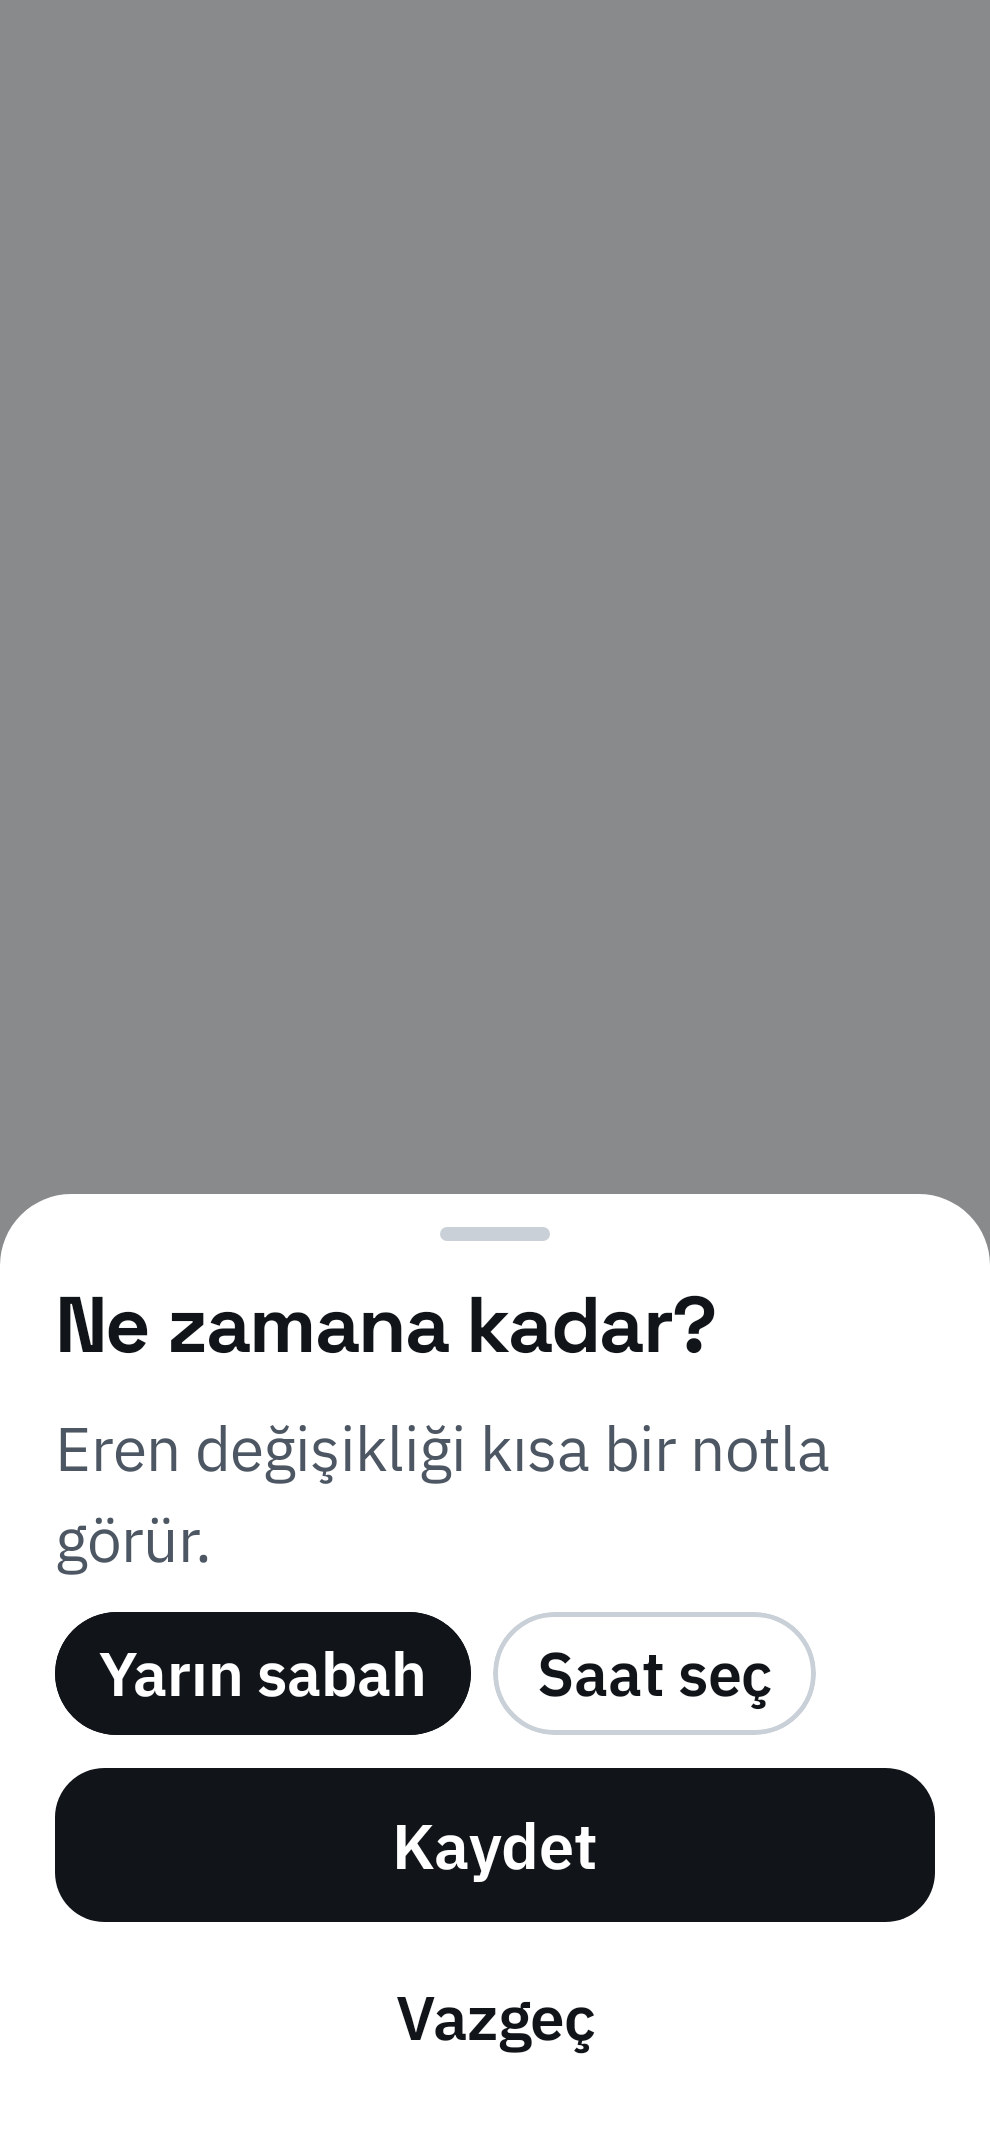
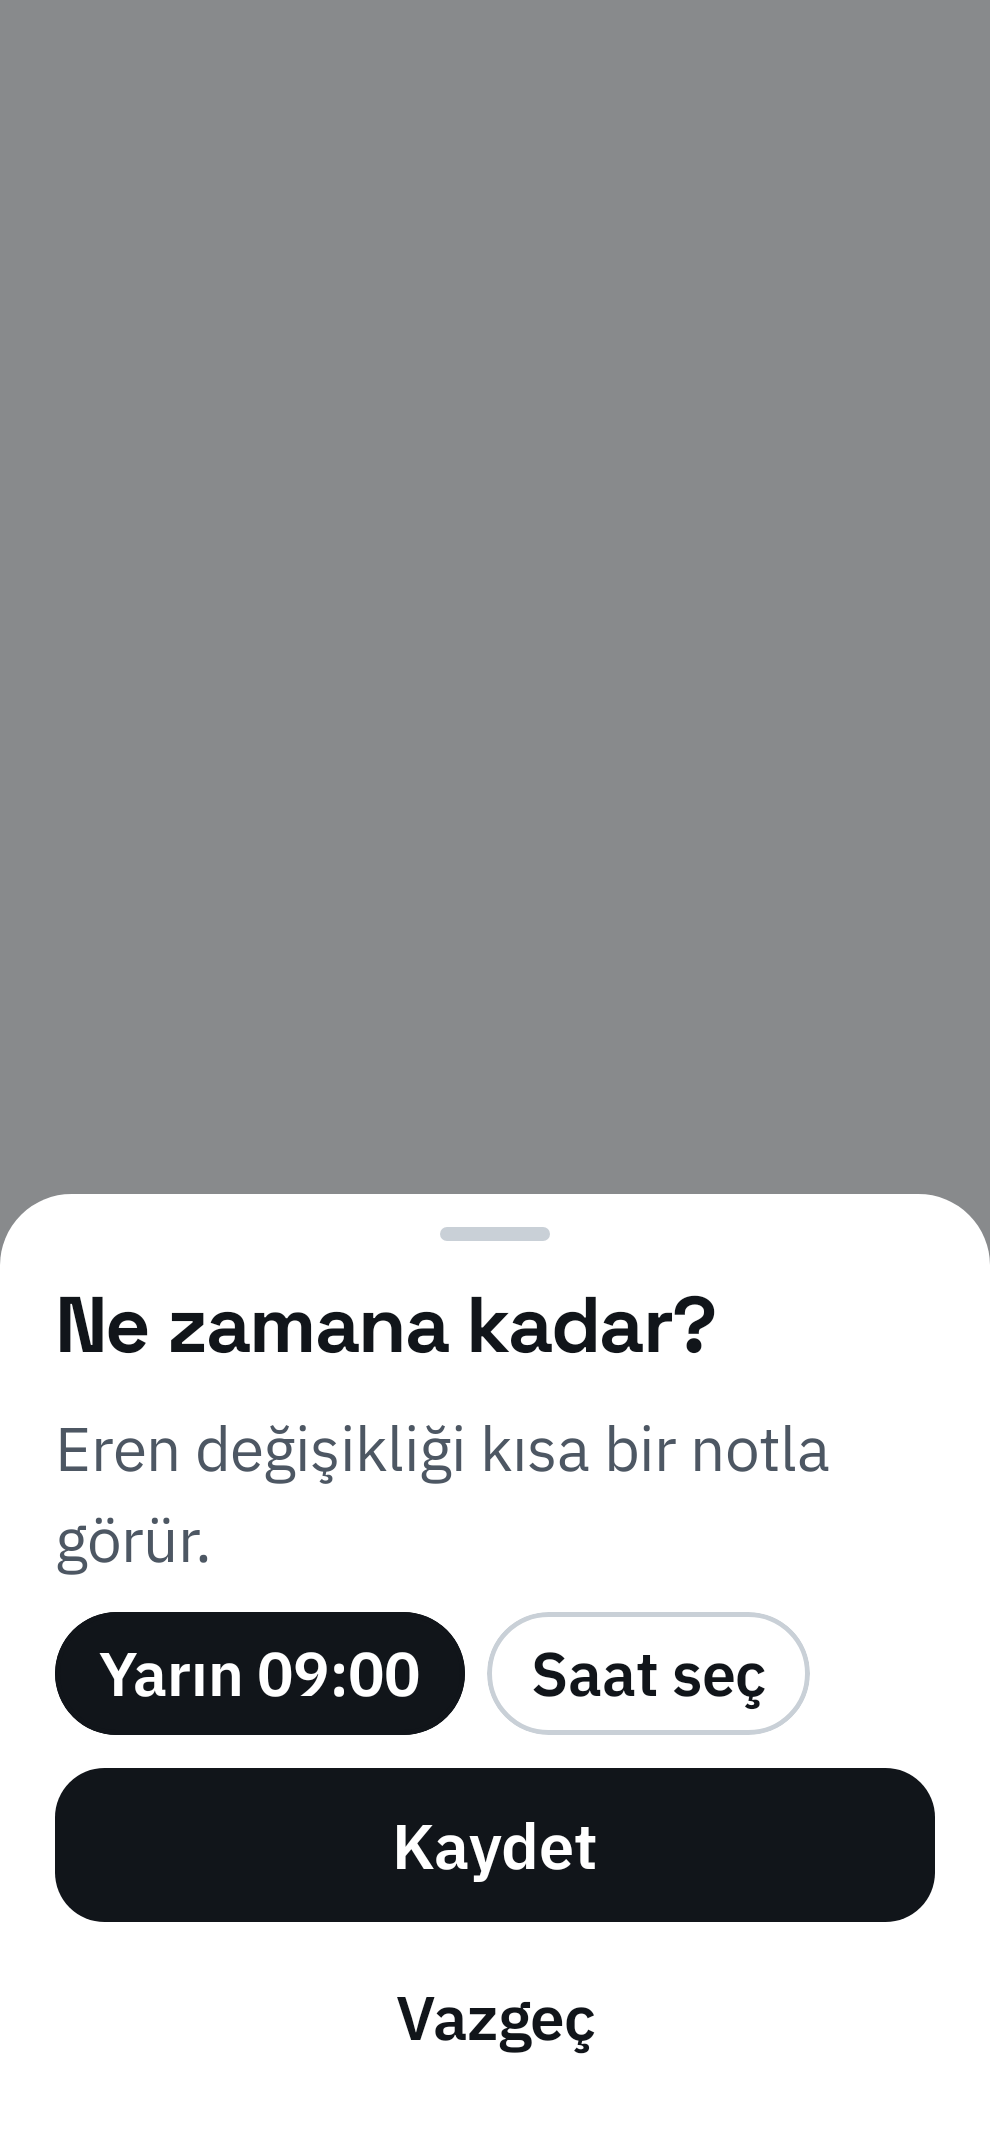
NUD-55 Sync carries timing and remindAt; quick picks show the time
The sync route mapped tasks field by field and left out timing and remindAt,
so the phone treated every task as 'by' and showed an 'at' task's miss time
(yarın 21:00 for yarın sabah 9). The quick picks now say Bugün 19:00 and
Yarın 09:00 instead of Bugün akşam and Yarın sabah.

Claude-Session: https://claude.ai/code/session_01MpnPveQqLsx472DNRojrYK

Changed region(s): [[0.4545, 0.7497, 0.6667, 0.8121], [0.2727, 0.7497, 0.4242, 0.8121], [0.697, 0.7497, 0.8182, 0.8121]]

diff --git a/apps/web/test/http/sync.test.ts b/apps/web/test/http/sync.test.ts
@@ -48,6 +48,30 @@ describe("http: sync", () => {
     expect(forEren.plans.flatMap((p) => p.steps.map((s) => s.level))).not.toContain("HUMAN");
   });
 
+  it("gives an at task's moment and timing to both sides (NUD-55)", async () => {
+    const r = await sibel.api.POST("/api/v1/commands/create_task", {
+      body: {
+        idempotencyKey: uuidv7(),
+        recipientId: eren.id,
+        title: "Ekmek al",
+        detail: null,
+        deadline: "2026-10-12T09:00:00+03:00",
+        timing: "at",
+        missAfterMinutes: 720,
+        finishMode: "done",
+        rawText: "yarın sabah 9 eren ekmek alsın",
+      },
+    });
+    const taskId = r.data?.taskId;
+    for (const who of [sibel, eren]) {
+      expect((await syncOf(who)).tasks.find((t) => t.id === taskId)).toMatchObject({
+        timing: "at",
+        remindAt: "2026-10-12T06:00:00.000Z",
+        deadline: "2026-10-12T18:00:00.000Z",
+      });
+    }
+  });
+
   it("tells when a task was written and how to reach a connection", async () => {
     const taskId = await createTask(sibel, eren);
     const forEren = await syncOf(eren);

diff --git a/apps/android/app/src/main/kotlin/app/nuddle/ui/screens/home/Preview.kt b/apps/android/app/src/main/kotlin/app/nuddle/ui/screens/home/Preview.kt
@@ -20,7 +20,7 @@ import java.util.Locale
 import kotlin.time.Instant
 
 // Parts of the day as the extraction prompt reads them (apps/web/src/infra/llm): akşam 19:00, sabah 09:00.
-// The times behind "Bugün akşam" and "Yarın sabah": open-questions#28.
+// The times behind "Bugün 19:00" and "Yarın 09:00": open-questions#28.
 private val EVENING = LocalTime(19, 0)
 private val MORNING = LocalTime(9, 0)
 
@@ -112,7 +112,7 @@ data class DoneNoteUi(
     val caughtAt: Int?,
 )
 
-/** "Bugün akşam" only while this evening is still ahead, then "Yarın sabah". */
+/** "Bugün 19:00" only while this evening is still ahead, then "Yarın 09:00". */
 fun quickDeadlines(
     now: Instant,
     timeZone: TimeZone,

diff --git a/apps/android/app/src/test/kotlin/app/nuddle/ui/HomeViewModelTest.kt b/apps/android/app/src/test/kotlin/app/nuddle/ui/HomeViewModelTest.kt
@@ -335,7 +335,7 @@ class HomeViewModelTest {
             assertEquals("1000 tl çek", preview?.rawText)
             assertEquals("Para çek", preview?.title)
             assertEquals("1.000 TL", preview?.detail)
-            // 20:00 now: this evening is gone, so only "Yarın sabah".
+            // 20:00 now: this evening is gone, so only "Yarın 09:00".
             assertEquals(listOf(DeadlineChoice.TomorrowMorning(Instant.parse("2026-10-12T09:00:00+03:00"))), preview?.choices)
             assertNull(preview?.selected)
             assertEquals("23:00" to "07:00", preview?.quietStart to preview?.quietEnd)

diff --git a/apps/android/app/src/main/kotlin/app/nuddle/ui/screens/home/DeadlineChips.kt b/apps/android/app/src/main/kotlin/app/nuddle/ui/screens/home/DeadlineChips.kt
@@ -21,7 +21,7 @@ import kotlinx.datetime.LocalTime
 import kotlin.time.Instant
 
 /**
- * The 2b deadline picks (open-questions#28): "Bugün akşam" while it is ahead, "Yarın sabah", and "Saat seç" with
+ * The 2b deadline picks (open-questions#28): "Bugün 19:00" while it is ahead, "Yarın 09:00", and "Saat seç" with
  * the time picker. Shared by the 7c row edit and the new deadline of 5d.
  */
 @OptIn(ExperimentalLayoutApi::class) // Reason: FlowRow is the layout for wrapping chips; no stable alternative.

diff --git a/apps/web/src/api/routes.ts b/apps/web/src/api/routes.ts
@@ -182,6 +182,8 @@ export function registerRoutes(app: OpenAPIHono<AppEnv>, deps: AppDeps): void {
             title: t.title,
             detail: t.detail,
             deadline: iso(t.deadline),
+            timing: t.timing,
+            remindAt: t.remindAt === null ? null : iso(t.remindAt),
             finishMode: t.finishMode,
             rawText: t.rawText,
             status: t.status,

diff --git a/docs/open-questions.md b/docs/open-questions.md
@@ -37,7 +37,7 @@ Things not yet decided. If you hit one while building, do not decide silently: p
 25. **License for the public repo.** Without a LICENSE file the code is visible but all rights are reserved. *Default:* a short `LICENSE` stating "Copyright (c) 2026 Eren Öztürk. All rights reserved." until an open source license is chosen.
 26. **OTP SMS text.** No copy exists for the code message. *Default:* "dürt kodun: 123456", followed by the SMS Retriever app hash on its own line. Under 140 bytes.
 27. **Next-up card copy not in the design** (screen 2f). The design shows only "Yarın 09:00" and a done task. *Decided 2026-10-12:* "Bugün 18:00" and "Yarın 09:00", otherwise day and month name ("14 Ekim 09:00"); for a photo task to self "Bitince | Fotoğrafını çek". Kept here so the number stays stable.
-28. **Quick deadline picks in the preview** (screen 2b). *Decided 2026-10-12:* "Bugün akşam" is 19:00 today and only shown while that is ahead, "Yarın sabah" is 09:00 tomorrow (the parts of the day the extraction prompt uses). "Saat seç" picks a time of day; the deadline is the next time the clock shows it. Kept here so the number stays stable.
+28. **Quick deadline picks in the preview** (screen 2b). *Changed 2026-10-14 (NUD-55):* the chips say the time, "Bugün 19:00" and "Yarın 09:00", since "Bugün akşam" and "Yarın sabah" left the hour to guess. *Decided 2026-10-12:* "Bugün akşam" is 19:00 today and only shown while that is ahead, "Yarın sabah" is 09:00 tomorrow (the parts of the day the extraction prompt uses). "Saat seç" picks a time of day; the deadline is the next time the clock shows it. Kept here so the number stays stable.
 29. **Undo toast for a task to self** (2a). The design has it only for a task to someone else (4i: "Eren'e gitti"). *Decided 2026-10-12:* title "Kuruldu", sub line "Para çek · yarın 09:00" (plus "bitince fotoğraf" for a photo task); Geri al cancels the task; Düzenle opens the preview to choose a new deadline (`edit`). Kept here so the number stays stable.
 30. **Setup copy and timing not in the design** (2c to 2e, self-only user). The design shows the invited flow with notifications already allowed and both settings left. *Default:* setup opens once the first task to self stands (the undo window is over, or Kur in the preview), only when it never ran on this install and a permission is missing. Demo label "Kendine · örnek". Title "Seni zamanında dürtebilmem için N ayar" (N counted when the steps open), or "Seni dürtebilmem için bildirim izni gerekiyor" when only notifications are missing; body for one setting "Bildirim iznini verdin. Kalanı Android'in ayar sayfasında, tek düğme.", while notifications are missing "Önce bildirim izni, kalanlar Android'in ayar sayfasında, her biri tek düğme.". Notifications step: "Dürtmeler bildirim olarak gelir. Bu izin olmadan sana hiç ulaşamam." with "İzin ver". Full screen step: "Telefonun kilitliyken de dürtmenin ekranı açması için. Bu olmadan dürtmeler sadece bildirim olarak gelir." and "Açılan sayfada "Tam ekran bildirimlere izin ver"i aç, sonra geri dön."; it can be skipped with "Tam ekransız devam et, dürtmeler bildirim olarak gelir". A skipped step shows "Atlandı". The demo poke does not play a sound.
 31. **Done note after Bitti on the poke.** The poke (3b, or the notification action) closes while home is not on screen. *Default:* the note waits in memory and home shows it for 4 s the next time it is on screen; the app is not opened for it. The poke number is the poke that was answered.

diff --git a/docs/ux/screens.md b/docs/ux/screens.md
@@ -124,7 +124,7 @@ ComposeBar focused with keyboard. Text that is not a task ("merhaba") gets the e
 
 ### 2b Preview, only when info is missing · `TaskPreview.png`
 Bottom sheet. Shows what was understood and asks exactly one question (here: the deadline).
-**Copy:** Yazdığın: "1000 tl çek" | Para çek | Kime | Kendine | Detay | 1.000 TL | Ne zamana kadar? | Bugün akşam | Yarın sabah | Saat seç | Zamanı gelince seni dürterim. Gece 23:00 ile 07:00 arası asla. | Kur | Vazgeç
+**Copy:** Yazdığın: "1000 tl çek" | Para çek | Kime | Kendine | Detay | 1.000 TL | Ne zamana kadar? | Bugün 19:00 | Yarın 09:00 (the canvas says "Bugün akşam" and "Yarın sabah"; open-questions #28) | Saat seç | Zamanı gelince seni dürterim. Gece 23:00 ile 07:00 arası asla. | Kur | Vazgeç
 
 ### 2c Setup: try first · `SetupDemo.png`
 **Copy:** Bir kerelik kurulum | Önce bir dene, dürtme nasıl hissettiriyor gör | Sibel'in işlerini kaçırmaya başlarsan böyle dürterim. 3 saniye sonra çalar, sonra birlikte kuralım. | Ekranı kaplar, sesi susturana kadar çalar | Bir dene | Denemeden kur
